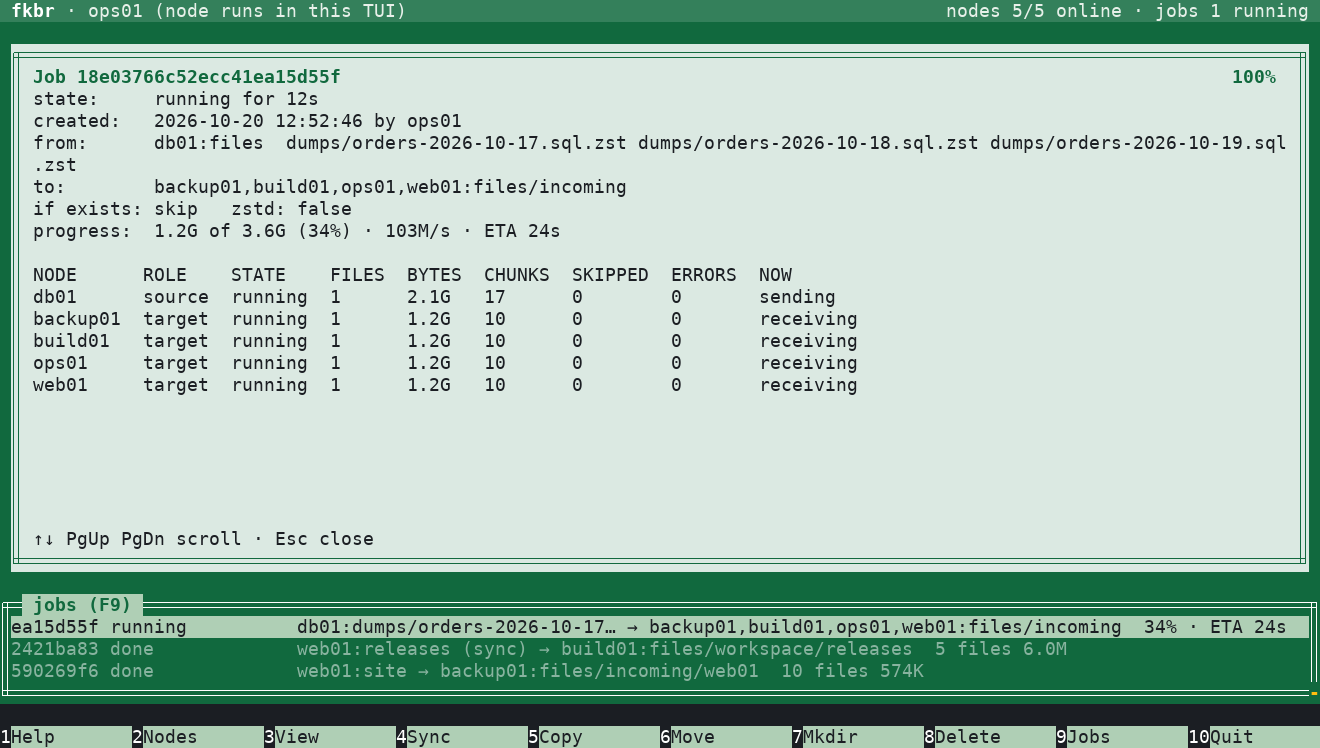
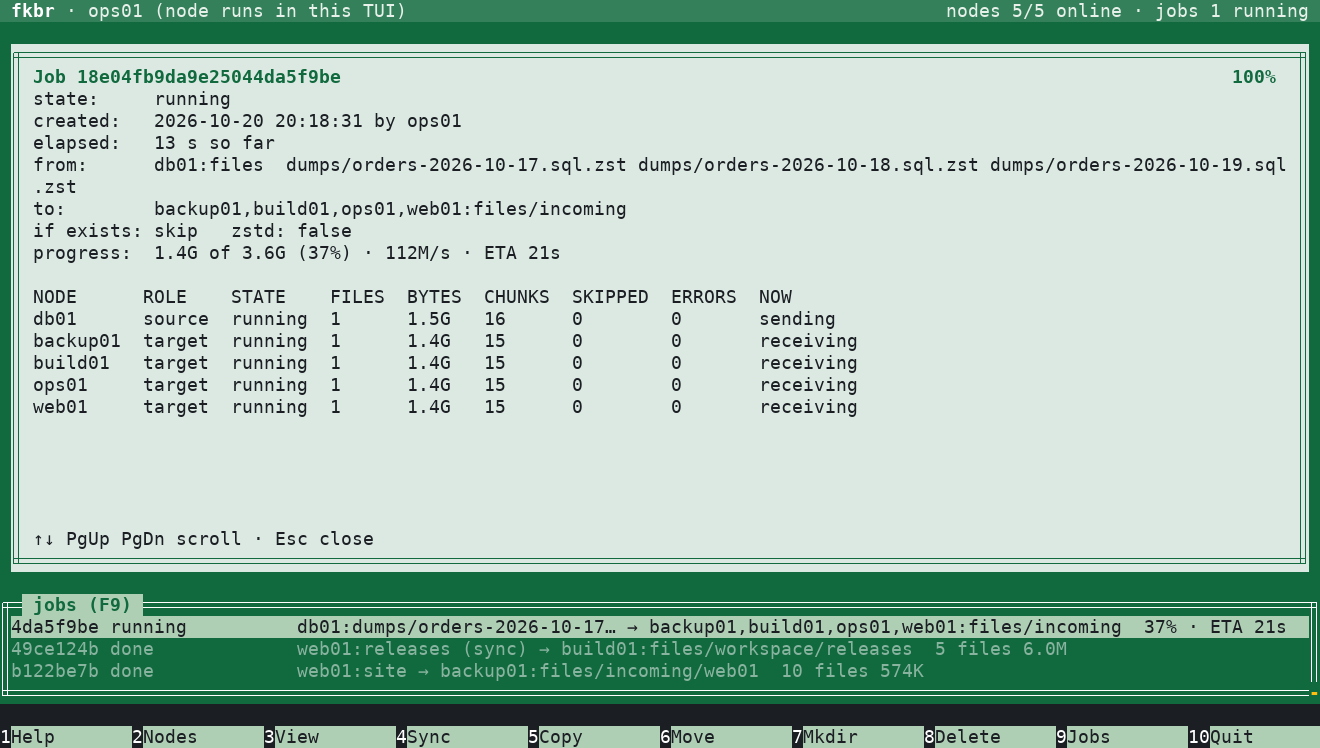
TUI: job details show the time elapsed
A line of its own under "created": "elapsed: 1 min 12 s, 2.0G at 28M/s
(finished 16:29:09)" for a finished job, "13 s so far" while it runs
(it moves on with the job's updates; no timer of its own). Durations in
h/min/s. It replaces the "took" at the end of the state line.

diff --git a/internal/frontend/tui/tui.go b/internal/frontend/tui/tui.go
@@ -945,18 +945,26 @@ func jobDetails(j *api.Job) string {
 			srcBytes = p.Bytes
 		}
 	}
+	// From submit to the last status; while running it moves on with each
+	// update of the job (no timer of its own).
+	elapsed := ""
 	switch {
-	case j.State.Terminal() && !last.IsZero() && !j.Created.IsZero():
-		took := last.Sub(j.Created).Round(time.Second)
-		state += fmt.Sprintf(", took %s", took)
-		if took > 0 && srcBytes > 0 {
-			state += fmt.Sprintf(" (%s at %s/s)", humanSize(srcBytes), humanSize(int64(float64(srcBytes)/took.Seconds())))
+	case j.Created.IsZero():
+	case j.State.Terminal() && !last.IsZero():
+		took := last.Sub(j.Created)
+		elapsed = humanDuration(took)
+		if took >= time.Second && srcBytes > 0 {
+			elapsed += fmt.Sprintf(", %s at %s/s", humanSize(srcBytes), humanSize(int64(float64(srcBytes)/took.Seconds())))
 		}
-	case !j.State.Terminal() && !j.Created.IsZero():
-		state += fmt.Sprintf(" for %s", time.Since(j.Created).Round(time.Second))
+		elapsed += " (finished " + last.Local().Format("15:04:05") + ")"
+	case !j.State.Terminal():
+		elapsed = humanDuration(time.Since(j.Created)) + " so far"
 	}
-	fmt.Fprintf(&b, "state:     %s\ncreated:   %s by %s\nfrom:      %s:%s  %s\nto:        %s:%s/%s\nif exists: %s   zstd: %v\n",
-		state, j.Created.Local().Format("2006-01-02 15:04:05"), j.Initiator,
+	fmt.Fprintf(&b, "state:     %s\ncreated:   %s by %s\n", state, j.Created.Local().Format("2006-01-02 15:04:05"), j.Initiator)
+	if elapsed != "" {
+		fmt.Fprintf(&b, "elapsed:   %s\n", elapsed)
+	}
+	fmt.Fprintf(&b, "from:      %s:%s  %s\nto:        %s:%s/%s\nif exists: %s   zstd: %v\n",
 		r.SrcNode, r.SrcRoot, strings.Join(r.Paths, " "),
 		strings.Join(r.DstNodes, ","), r.DstRoot, r.DstDir, r.Conflict, r.Compress)
 	if j.CatchUpOf != "" {
@@ -1052,6 +1060,20 @@ func progressOf(j *api.Job) (done, total, files int64, counted bool, rate float6
 }
 
 // jobLine summarises a job in one line for the jobs panel.
+// humanDuration is d in h/min/s: "45 s", "1 min 12 s", "2 h 3 min".
+func humanDuration(d time.Duration) string {
+	s := int64(d.Round(time.Second) / time.Second)
+	switch {
+	case d < time.Second:
+		return "under 1 s"
+	case s < 60:
+		return fmt.Sprintf("%d s", s)
+	case s < 3600:
+		return fmt.Sprintf("%d min %d s", s/60, s%60)
+	}
+	return fmt.Sprintf("%d h %d min", s/3600, s%3600/60)
+}
+
 func jobLine(j *api.Job, width int) string {
 	r := j.Request
 	var src *api.JobStatus

diff --git a/internal/frontend/tui/tui_test.go b/internal/frontend/tui/tui_test.go
@@ -570,8 +570,19 @@ func TestJobDetailsLayout(t *testing.T) {
 	if !strings.Contains(d, "receiving") {
 		t.Errorf("running node's phase missing:\n%s", d)
 	}
-	if !strings.Contains(d, "state:     done, took 1m12s") {
-		t.Errorf("duration missing:\n%s", d)
+	if !strings.Contains(d, "state:     done\n") || !strings.Contains(d, "elapsed:   1 min 12 s, 2.0G at 28M/s (finished 16:29:09)\n") {
+		t.Errorf("elapsed time missing:\n%s", d)
+	}
+}
+
+func TestHumanDuration(t *testing.T) {
+	for d, want := range map[time.Duration]string{
+		0: "under 1 s", 400 * time.Millisecond: "under 1 s", 1600 * time.Millisecond: "2 s", 45 * time.Second: "45 s", 72 * time.Second: "1 min 12 s",
+		time.Hour: "1 h 0 min", 2*time.Hour + 3*time.Minute + 50*time.Second: "2 h 3 min", 50 * time.Hour: "50 h 0 min",
+	} {
+		if got := humanDuration(d); got != want {
+			t.Errorf("humanDuration(%v) = %q, want %q", d, got, want)
+		}
 	}
 }
 
@@ -589,6 +600,9 @@ func TestJobProgressAndETA(t *testing.T) {
 	}
 	// The slowest target decides: b has 250 MiB of 1000 MiB after 10 s.
 	d := jobDetails(job(true, 250<<20))
+	if !strings.Contains(d, "elapsed:   10 s so far\n") {
+		t.Errorf("elapsed while running:\n%s", d)
+	}
 	if !strings.Contains(d, "progress:  250M of 1.0G (25%)") || !strings.Contains(d, "ETA 30s") {
 		t.Errorf("progress line:\n%s", d)
 	}

diff --git a/internal/frontend/tui/dialogs.go b/internal/frontend/tui/dialogs.go
@@ -378,7 +378,7 @@ SYNC (F4)
 
 JOBS (F9)
   ↑ ↓            choose a job
-  Enter          details: progress and ETA, every node, notes
+  Enter          details: time taken, progress, ETA, every node, notes
   c              cancel
   u              catch up nodes that were offline
   Esc            back

diff --git a/docs/operations.md b/docs/operations.md
@@ -239,7 +239,7 @@ keys.
 | F4 | sync: make the other side match this pane (plan shown first). Nothing selected: the whole directory. Selected folders: each into a folder of the same name; selected files are copied. Mirror (Ctrl+O) deletes only inside what is synced |
 | F5 / F6 | copy / move the selection. The destination defaults to `@dest` while nodes are marked, else to the other pane; type `node` or `n1,n2`, or press Ctrl+A for every node (`@all`). Marked nodes that are offline are detached, to catch up later, as with `@all` |
 | F7 / F8 | make directory / delete (asks first) on whichever node the pane shows |
-| F9 | jobs panel with progress and ETA: Enter for details (each node's state, time-stamped notes), `c` cancel, `u` catch up |
+| F9 | jobs panel with progress and ETA: Enter for details (time elapsed, each node's state, time-stamped notes), `c` cancel, `u` catch up |
 | F10, `q` | quit; if this TUI is the node and it has running jobs, it asks first (its part pauses and resumes the next time) |
 | F1, `?` | help: every key, how sync works, and this node's log file |
 
